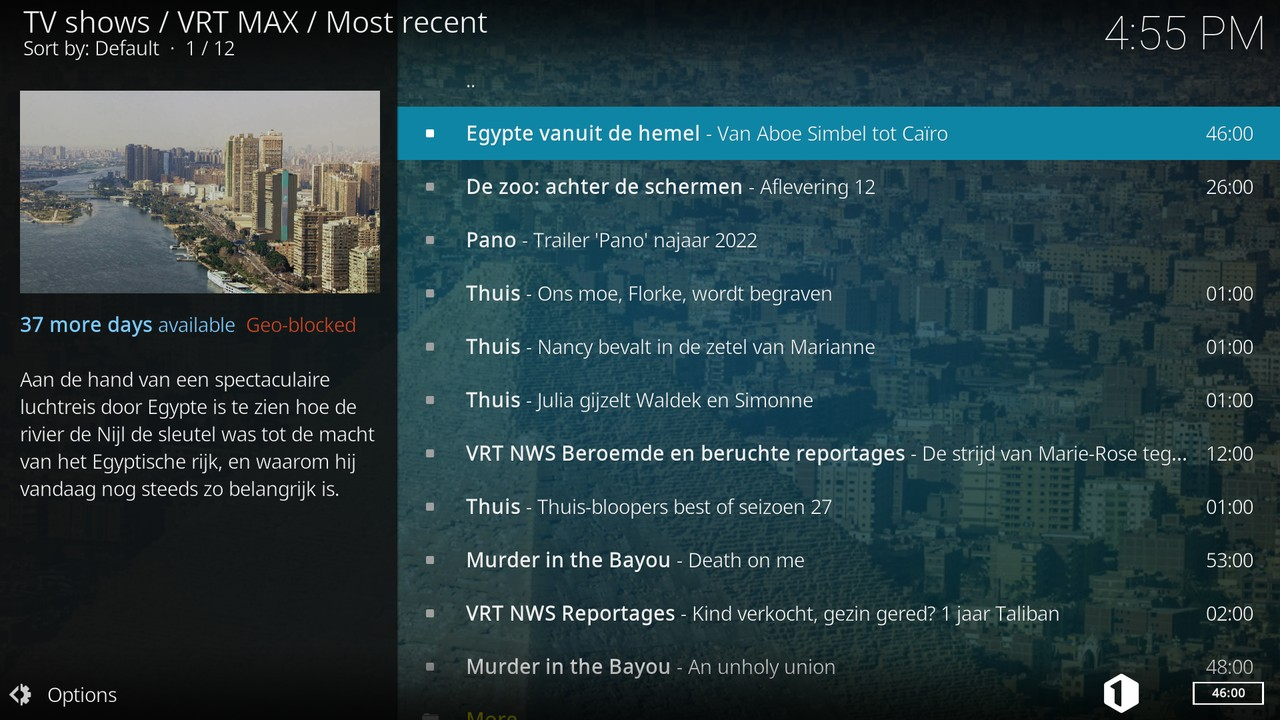
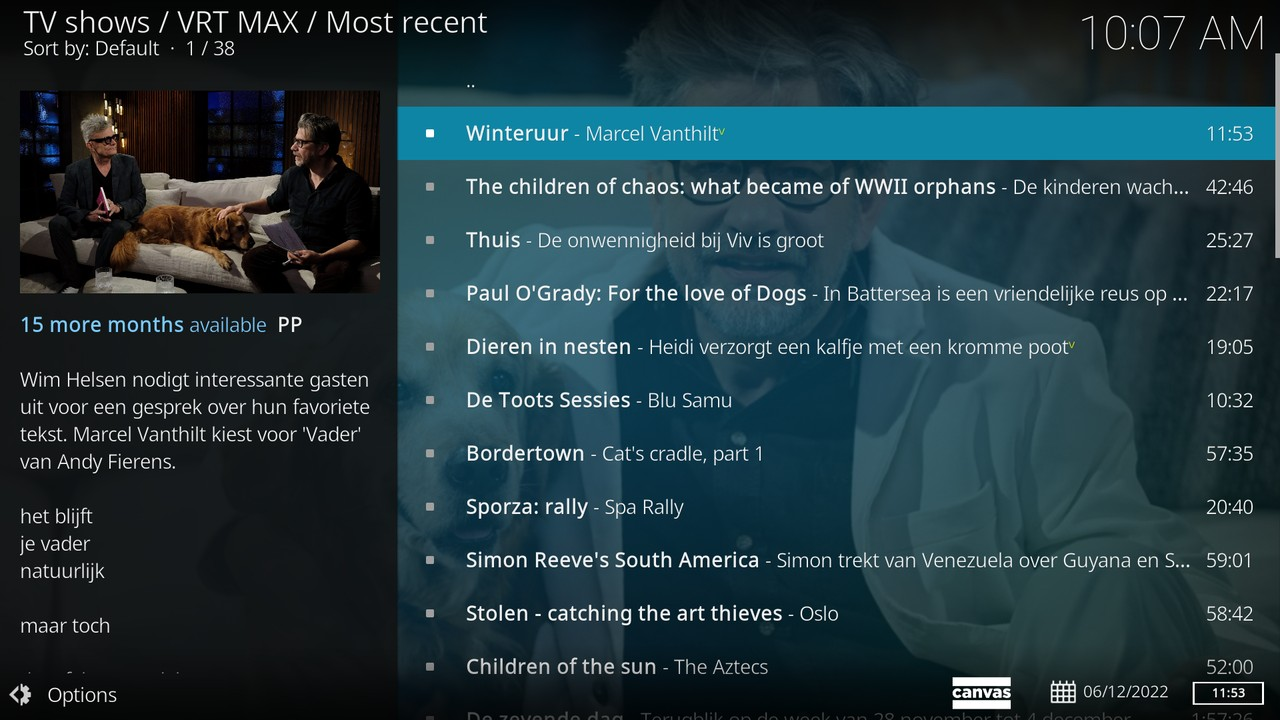
Prepare for v2.5.20 release (#1084)

diff --git a/README.md b/README.md
@@ -59,6 +59,10 @@ leave a message at [our Facebook page](https://facebook.com/kodivrtnu/).
 </table>
 
 ## Releases
+### v2.5.20 (2022-12-06)
+- Fix all programs menu (@mediaminister)
+- Fix latest episode API (@mediaminister)
+
 ### v2.5.19 (2022-10-16)
 - Fix categories and channels menu listings (@mediaminister)
 - Fix resumepoints and Up Next integration (@mediaminister)
